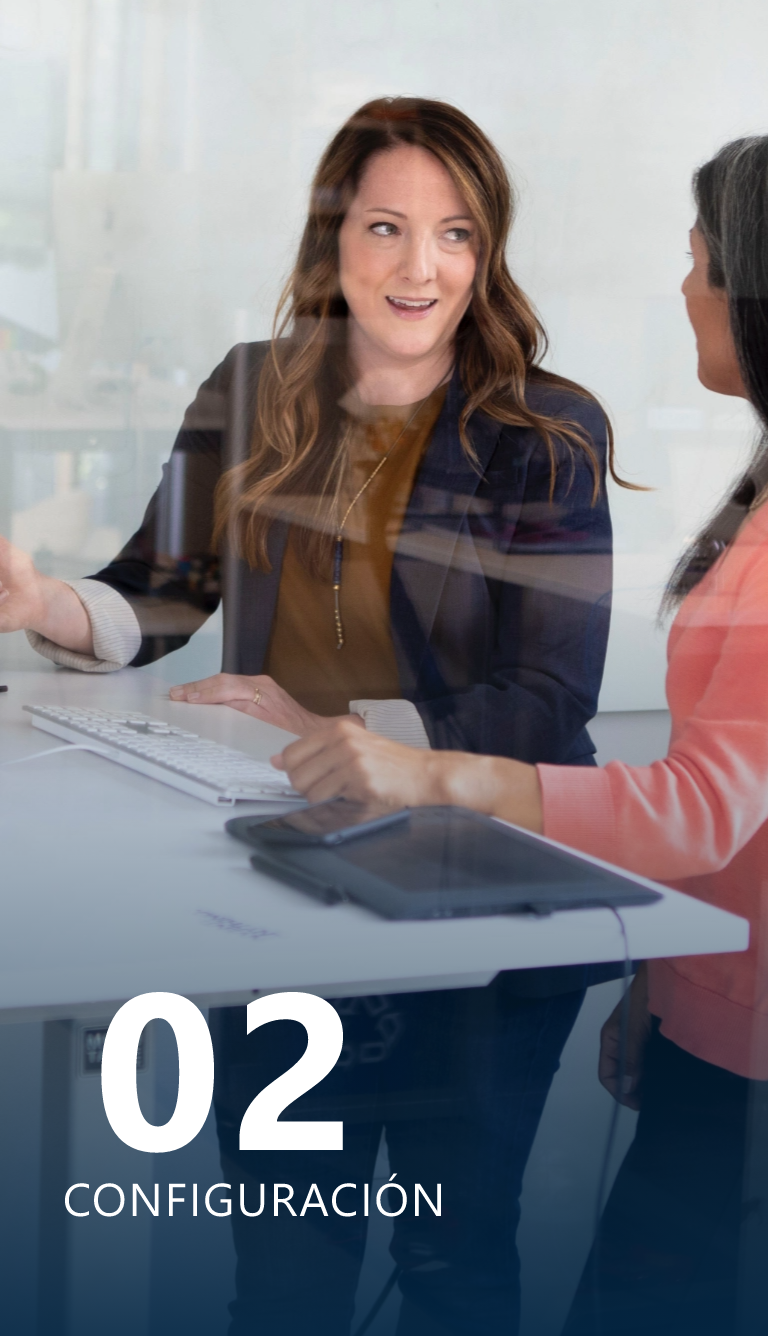
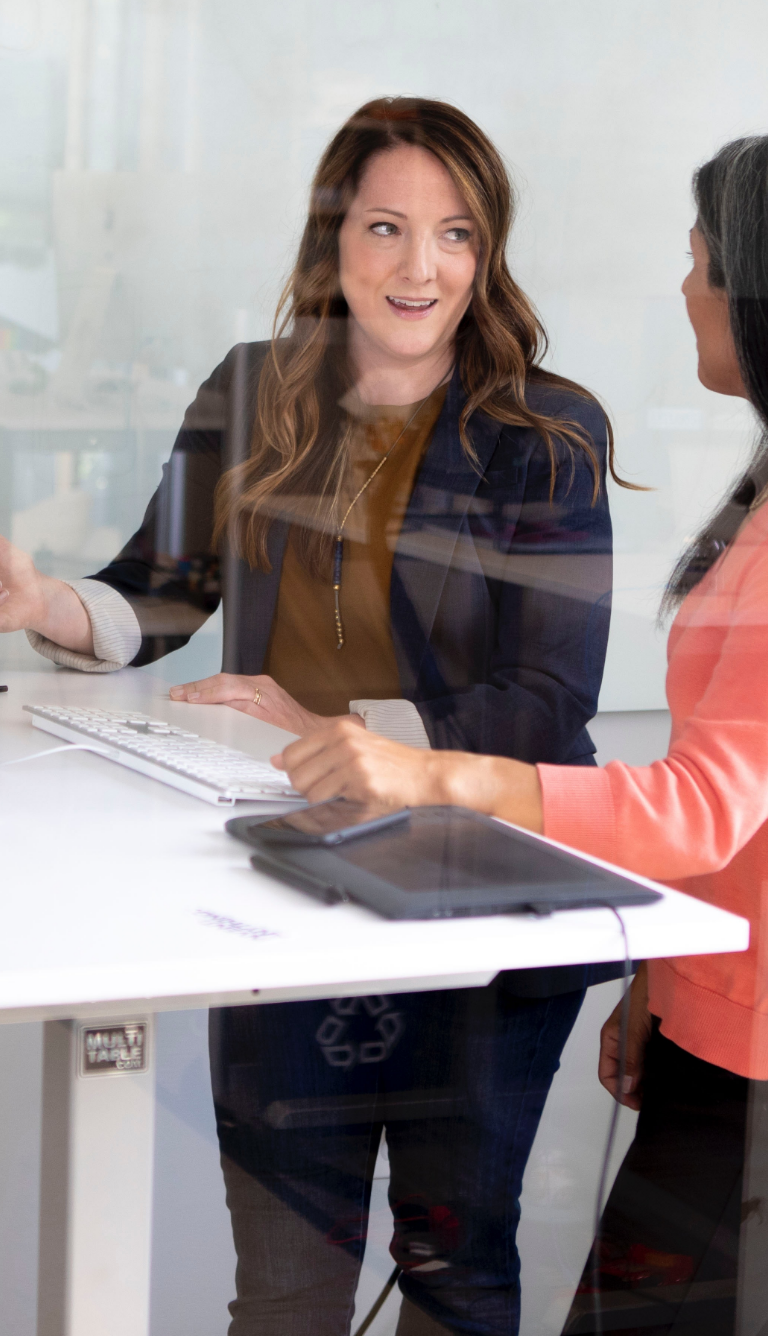
Agregué la imagen correcta para el proceso 2.

diff --git a/src/app/versiones/modelos.ts b/src/app/versiones/modelos.ts
@@ -50,7 +50,7 @@ export const RadarControlTotalProcessList = [
       'Se realiza el alta del taller en RADAR, y se configura según las necesidades.',
     processDuration: '1 Semana',
     optional: false,
-    imageSrc: 'assets/Grupo-749.png',
+    imageSrc: 'assets/Grupo-750.png',
     clicked: false,
   },
   {
@@ -103,7 +103,7 @@ export const RadarLiteProcessList = [
       'Se realiza el alta del taller en RADAR, y se configura según las necesidades.',
     processDuration: '1 Semana',
     optional: false,
-    imageSrc: 'assets/Grupo-749.png',
+    imageSrc: 'assets/Grupo-750.png',
     clicked: false,
   },
   {
